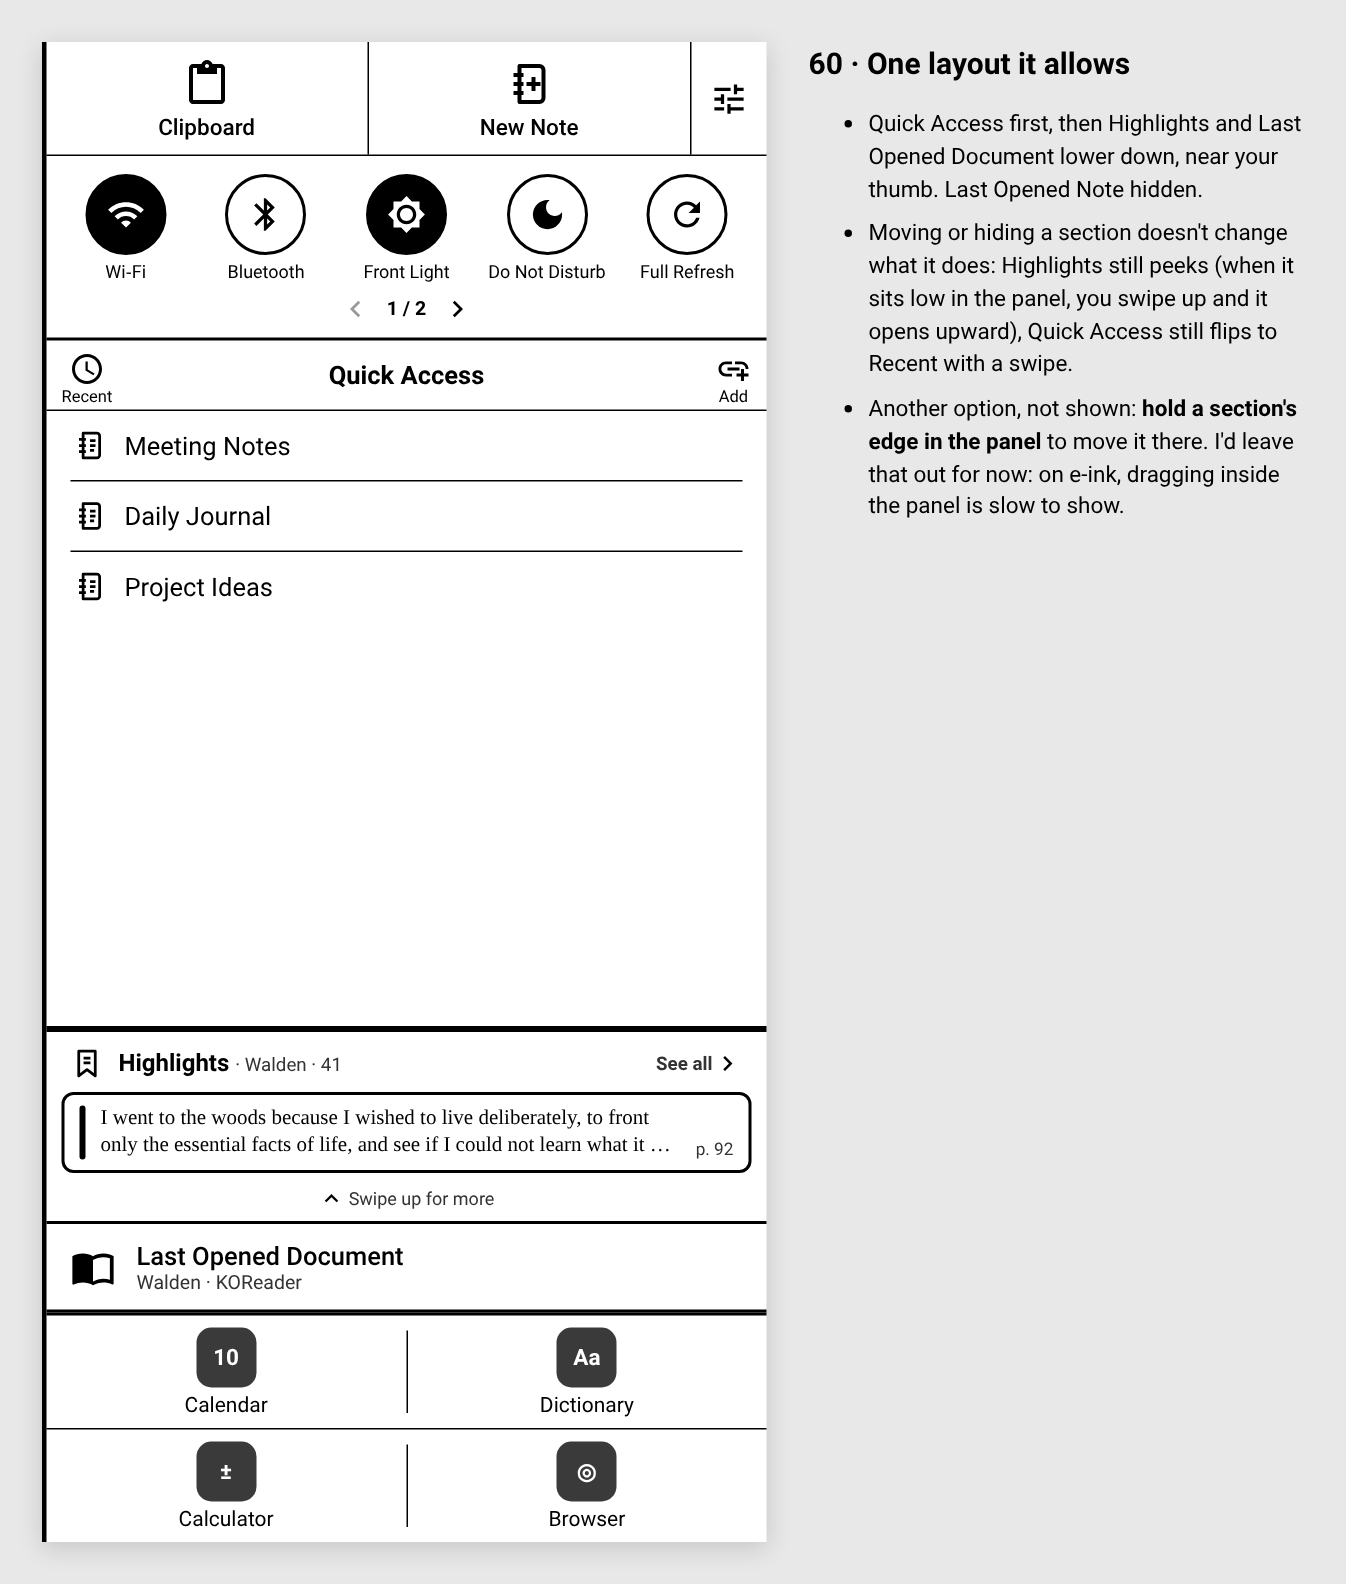
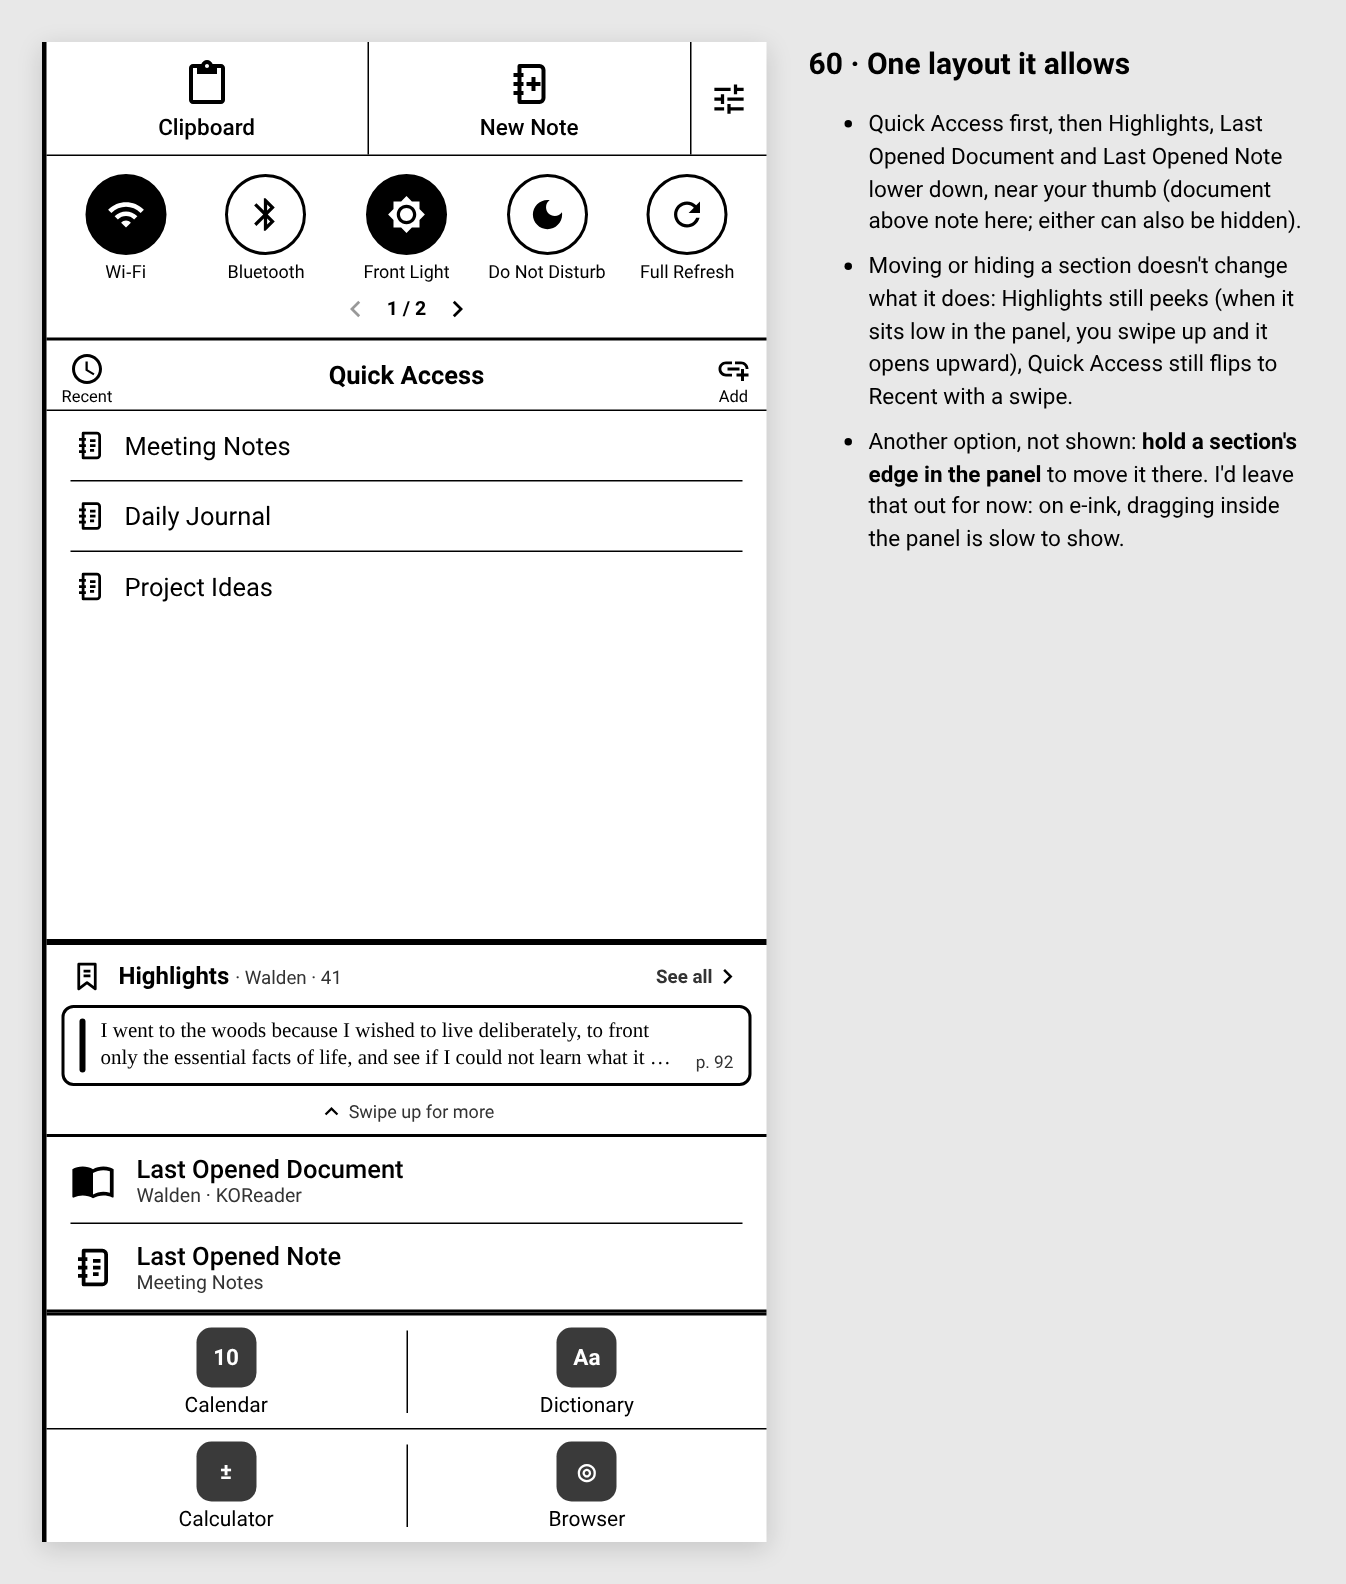
Panel sections: reorder and hide them in Settings → Look & size
Quick Controls, Last Opened Note, Last Opened Document, Highlights and Quick
Access can be dragged into any order and hidden; the top bar stays first,
the apps last, and Quick Access takes the height left. Highlights placed
below Quick Access peeks upward. Mockup 60 shows Last Opened Note again.

Claude-Session: https://claude.ai/code/session_018hzrAjqxwJr5HFxLW5Xn9C

Changed region(s): [[0.0312, 0.5878, 0.5617, 0.8352], [0.6241, 0.0619, 0.9673, 0.3403]]

diff --git a/app/src/main/java/com/superboox/quickaccess/QuickAccessPanel.kt b/app/src/main/java/com/superboox/quickaccess/QuickAccessPanel.kt
@@ -167,6 +167,8 @@ class QuickAccessPanel(
     private var peekPage = 0
     /** The highlight in the peek whose actions are showing. */
     private var peekOpen: String? = null
+    /** Highlights sits below Quick Access: it peeks with a swipe up (and closes with one down). */
+    private var peekUp = false
     private val digests: List<Digests.Highlight> by lazy { runCatching { Digests.all(service) }.getOrDefault(emptyList()) }
 
     /** The book open in a reading app (or the last one read), if Digests has highlights from it. */
@@ -254,40 +256,77 @@ class QuickAccessPanel(
             }
             return
         }
-        if (prefs.showSystemActions) {
-            content.addView(quickControlsRow(), lp(MATCH, WRAP))
-            content.addView(rule(2))
-        }
+        // The middle sections in the order set in Settings → Look & size → Panel sections.
+        val order = PanelSections.order(prefs).filter { PanelSections.shown(prefs, it) }
+        val showQc = PanelSection.CONTROLS in order
         if (peek && mode != Mode.MAIN) peek = false
         if (peek) {
-            // Highlights opened up over Last Opened and Quick Access; the apps stay.
+            // Highlights opened up over the other sections; Quick Controls and the apps stay.
+            if (showQc) {
+                content.addView(quickControlsRow(), lp(MATCH, WRAP))
+                content.addView(rule(2))
+            }
             content.addView(highlightsPeek(), lp(MATCH, 0, 1f))
             content.addView(rule(3))
             content.addView(dock(), lp(MATCH, WRAP))
             return
         }
-        // A swipe right anywhere in the Last Opened rows and the list below flips between
-        // Quick Access and Recent Files (not while editing, where rows are dragged). The controls
-        // above and the apps below keep their own sideways paging.
-        val flip = SwipeRow(ctx, s(40), vertical = true, only = -1) { _ ->
-            show(if (mode == Mode.RECENT) Mode.MAIN else Mode.RECENT)
+        // Highlights below Quick Access opens upward (swipe up), above it downward.
+        val quickAt = order.indexOf(PanelSection.QUICK)
+        peekUp = quickAt >= 0 && order.indexOf(PanelSection.HIGHLIGHTS) > quickAt
+        val views = order.mapNotNull { sec ->
+            val v: View? = when (sec) {
+                PanelSection.CONTROLS -> quickControlsRow()
+                PanelSection.NOTE -> lastNoteRow()
+                PanelSection.DOCUMENT -> lastDocumentRow()
+                PanelSection.HIGHLIGHTS -> if (mode == Mode.MAIN) highlightsSection() else null
+                PanelSection.QUICK -> scrolling(when (mode) {
+                    Mode.RECENT -> recentList()
+                    Mode.EDIT -> editList()
+                    else -> quickAccessList()
+                })
+            }
+            v?.let { sec to it }
         }
-        flip.addView(lastNoteRow())
-        flip.addView(insetRule())
-        flip.addView(lastDocumentRow())
-        flip.addView(rule(3))
-        if (mode == Mode.MAIN) highlightsSection()?.let {
-            flip.addView(it)
-            flip.addView(rule(3))
+        // A swipe right anywhere in these sections (other than Quick Controls, which pages sideways
+        // itself) flips between Quick Access and Recent Files; not while editing, where rows are dragged.
+        // Neighbouring sections share one swipe area; Quick Controls splits them.
+        var run: SwipeRow? = null
+        var prev: PanelSection? = null
+        var filled = false
+        for ((sec, v) in views) {
+            val sep: View? = when {
+                prev == null -> null
+                prev == PanelSection.CONTROLS || sec == PanelSection.CONTROLS -> rule(2)
+                prev in LAST_ROWS && sec in LAST_ROWS -> insetRule()
+                else -> rule(3)
+            }
+            if (sec == PanelSection.CONTROLS) {
+                run = null
+                sep?.let { content.addView(it) }
+                content.addView(v, lp(MATCH, WRAP))
+            } else {
+                val r = run ?: SwipeRow(ctx, s(40), vertical = true, only = -1) { _ ->
+                    show(if (mode == Mode.RECENT) Mode.MAIN else Mode.RECENT)
+                }.also { r ->
+                    r.swipeOn = mode != Mode.EDIT
+                    sep?.let { content.addView(it) }
+                    content.addView(r, lp(MATCH, WRAP))
+                    run = r
+                }
+                if (r.childCount > 0) sep?.let { r.addView(it) }
+                if (sec == PanelSection.QUICK) {
+                    r.addView(v, lp(MATCH, 0, 1f))
+                    r.layoutParams = lp(MATCH, 0, 1f)
+                    filled = true
+                } else {
+                    r.addView(v)
+                }
+            }
+            prev = sec
         }
-        val middle = when (mode) {
-            Mode.RECENT -> recentList()
-            Mode.EDIT -> editList()
-            else -> quickAccessList()
-        }
-        flip.addView(scrolling(middle), lp(MATCH, 0, 1f))
-        if (mode == Mode.EDIT) flip.swipeOn = false
-        content.addView(flip, lp(MATCH, 0, 1f))
+        // Quick Access hidden: the space left goes under the sections.
+        if (!filled) content.addView(View(ctx), lp(MATCH, 0, 1f))
         content.addView(rule(3))
         thisAppStrip()?.let {
             content.addView(it, lp(MATCH, WRAP))
@@ -2385,10 +2424,10 @@ class QuickAccessPanel(
         val pool = if (book != null) digests.filter { it.bookKey == book.key } else digests
         val latest = pool.sortedByDescending { it.time }.take(prefs.digestPanelCount)
         if (latest.isEmpty()) return null
-        VerticalSwipe(ctx, s(40), down = true) { openPeek() }.apply {
+        VerticalSwipe(ctx, s(40), down = !peekUp) { openPeek() }.apply {
             addView(highlightsHeader(if (book != null) "${book.title} · ${book.count}" else "recent", book?.key))
             latest.forEach { h -> addView(highlightLine(h, showBook = book == null, compact = true) { openPeek() }) }
-            addView(grip("Swipe down for more", down = true) { openPeek() })
+            addView(grip(if (peekUp) "Swipe up for more" else "Swipe down for more", down = !peekUp) { openPeek() })
         }
     }
 
@@ -2412,7 +2451,7 @@ class QuickAccessPanel(
         val pool = (if (peekAll || book == null) digests else digests.filter { it.bookKey == book.key }).sortedByDescending { it.time }
         val pages = ((pool.size + PEEK_PER_PAGE - 1) / PEEK_PER_PAGE).coerceAtLeast(1)
         peekPage = peekPage.coerceIn(0, pages - 1)
-        VerticalSwipe(ctx, s(40), down = false) { closePeek() }.apply {
+        VerticalSwipe(ctx, s(40), down = peekUp) { closePeek() }.apply {
             addView(highlightsHeader("recent", if (peekAll) null else book?.key))
             if (book != null) addView(hbox().apply {
                 background = outline(2, 8)
@@ -2437,7 +2476,7 @@ class QuickAccessPanel(
                 addView(text("${peekPage + 1} / $pages", sp(15f), bold = true).apply { setPadding(s(8), 0, s(8), 0) })
                 addView(pagerButton(R.drawable.ic_chevron_right, "Older highlights", peekPage < pages - 1) { peekPage++; peekOpen = null; show(Mode.MAIN) })
             })
-            addView(grip("Swipe up to close", down = false) { closePeek() })
+            addView(grip(if (peekUp) "Swipe down to close" else "Swipe up to close", down = peekUp) { closePeek() })
         }
     }
 
@@ -2580,6 +2619,7 @@ class QuickAccessPanel(
         const val LIGHT_PER_PAGE = 4
         const val CLIPS_PER_PAGE_MIN = 2
         const val PEEK_PER_PAGE = 5
+        private val LAST_ROWS = setOf(PanelSection.NOTE, PanelSection.DOCUMENT)
 
         /** The panel's width in pixels on a screen [screenW] wide (also used for Settings' live preview). */
         fun sheetWidth(context: Context, prefs: Prefs, screenW: Int): Int =

diff --git a/app/src/main/java/com/superboox/quickaccess/SettingsActivity.kt b/app/src/main/java/com/superboox/quickaccess/SettingsActivity.kt
@@ -1383,11 +1383,59 @@ class SettingsActivity : Activity() {
             previewButton(),
         )))
         list.addView(note("Changing the size or width shows the real panel beside this page, at that size, so you can see it before opening the panel. It can't be tapped; hide it with the button or by leaving this page."))
+        panelSectionsCard()
         list.addView(heading("Pages"))
         list.addView(card(listOf(
             check("Remember last page", prefs.rememberPages) { prefs.rememberPages = it },
         )))
         list.addView(note("Quick Controls and apps reopen on the page you left them on. Off: they start on page 1 each time the panel opens."))
+    }
+
+    /** Look & size → Panel sections: drag to reorder, untick to hide; the live panel shows it. */
+    private fun panelSectionsCard() {
+        list.addView(heading("Panel sections"))
+        val order = PanelSections.order(prefs)
+        fun fixedRow(title: String, sub: String, tag: String) = hbox().apply {
+            setPadding(dp(12), dp(10), dp(12), dp(10))
+            addView(View(context), lp(dp(42), 1))
+            addView(vbox().apply {
+                addView(text(title, 17f, medium = true))
+                addView(text(sub, 13f, color = Ink.MUTED))
+            }, lp(0, WRAP, 1f))
+            addView(text(tag, 11f, bold = true).apply { background = outline(1, 4); setPadding(dp(6), dp(1), dp(6), dp(1)) })
+        }
+        val rows = mutableListOf<View>(fixedRow("Top bar", "Clipboard · New Note · Settings", "ALWAYS FIRST"))
+        order.forEachIndexed { i, sec ->
+            val on = PanelSections.ticked(prefs, sec)
+            rows += hbox().apply {
+                setPadding(dp(6), dp(4), dp(12), dp(4))
+                gravity = Gravity.CENTER_VERTICAL
+                addView(dragHandle(this, i, order.size) { from, to ->
+                    PanelSections.save(prefs, order.move(from, to))
+                    previewOn = true
+                })
+                addView(CheckBox(context).apply {
+                    buttonTintList = android.content.res.ColorStateList.valueOf(Ink.INK)
+                    isChecked = on
+                    contentDescription = "Show ${sec.title}"
+                    setOnCheckedChangeListener { _, checked -> PanelSections.setShown(prefs, sec, checked); previewOn = true; render() }
+                })
+                addView(vbox().apply {
+                    setPadding(dp(4), dp(6), 0, dp(6))
+                    addView(text(sec.title, 17f, medium = true, color = if (on) Ink.INK else Ink.DISABLED))
+                    val sub = if (sec == PanelSection.CONTROLS && on && !prefs.showSystemActions) "None chosen: add some in Quick Controls" else sec.summary
+                    addView(text(sub, 13f, color = if (on) Ink.MUTED else Ink.DISABLED))
+                }, lp(0, WRAP, 1f))
+            }
+        }
+        rows += fixedRow("Apps at the bottom", "${prefs.dock.size} apps", "ALWAYS LAST")
+        if (!PanelSections.isDefault(prefs)) rows += buttonRow("Reset to the usual order" to {
+            PanelSections.reset(prefs)
+            previewOn = true
+            render()
+        })
+        list.addView(card(rows))
+        list.addView(note("Drag ≡ to move a section; untick it to hide it. The panel beside this page shows the result. Quick Access fills whatever height is left, wherever it sits."))
     }
 
     private fun pinsSection() {

diff --git a/app/src/main/java/com/superboox/quickaccess/PanelSections.kt b/app/src/main/java/com/superboox/quickaccess/PanelSections.kt
@@ -1,0 +1,59 @@
+package com.superboox.quickaccess
+
+/**
+ * The panel's middle sections, in the order the user set in Settings → Look & size → Panel
+ * sections. The top bar always comes first and the apps last; Quick Access takes the height left.
+ */
+enum class PanelSection(val id: String, val title: String, val summary: String) {
+    CONTROLS("controls", "Quick Controls", "Wi‑Fi, Front Light and the other switches"),
+    NOTE("note", "Last Opened Note", "Tap reopens it"),
+    DOCUMENT("document", "Last Opened Document", "Tap reopens it"),
+    HIGHLIGHTS("highlights", "Highlights", "Latest from the open book (Digests)"),
+    QUICK("quick", "Quick Access", "Your pinned items; takes the space left"),
+}
+
+object PanelSections {
+    val DEFAULT = listOf(PanelSection.CONTROLS, PanelSection.NOTE, PanelSection.DOCUMENT, PanelSection.HIGHLIGHTS, PanelSection.QUICK)
+
+    /** Every section, in the saved order (sections added in later versions go where they'd be by default). */
+    fun order(prefs: Prefs): List<PanelSection> {
+        val saved = prefs.sp.getString(Prefs.K_PANEL_ORDER, null)?.split(',')
+            ?.mapNotNull { id -> PanelSection.entries.firstOrNull { it.id == id } }?.distinct().orEmpty()
+        if (saved.isEmpty()) return DEFAULT
+        val out = saved.toMutableList()
+        DEFAULT.filter { it !in out }.forEach { missing ->
+            val after = DEFAULT.getOrNull(DEFAULT.indexOf(missing) - 1)
+            out.add(if (after == null) 0 else out.indexOf(after) + 1, missing)
+        }
+        return out
+    }
+
+    fun save(prefs: Prefs, order: List<PanelSection>) {
+        prefs.sp.edit().putString(Prefs.K_PANEL_ORDER, order.joinToString(",") { it.id }).apply()
+    }
+
+    fun reset(prefs: Prefs) {
+        prefs.sp.edit().remove(Prefs.K_PANEL_ORDER).remove(Prefs.K_PANEL_HIDDEN).apply()
+        prefs.digestPanel = true
+    }
+
+    /** Ticked in Settings. Highlights keeps its own setting (also in Settings → Digests). */
+    fun ticked(prefs: Prefs, s: PanelSection): Boolean = when (s) {
+        PanelSection.HIGHLIGHTS -> prefs.digestPanel
+        else -> s.id !in hidden(prefs)
+    }
+
+    /** Drawn in the panel: ticked, and Quick Controls only when it has controls. */
+    fun shown(prefs: Prefs, s: PanelSection): Boolean = ticked(prefs, s) && (s != PanelSection.CONTROLS || prefs.showSystemActions)
+
+    fun setShown(prefs: Prefs, s: PanelSection, on: Boolean) {
+        when (s) {
+            PanelSection.HIGHLIGHTS -> prefs.digestPanel = on
+            else -> prefs.sp.edit().putStringSet(Prefs.K_PANEL_HIDDEN, if (on) hidden(prefs) - s.id else hidden(prefs) + s.id).apply()
+        }
+    }
+
+    private fun hidden(prefs: Prefs): Set<String> = prefs.sp.getStringSet(Prefs.K_PANEL_HIDDEN, null).orEmpty()
+
+    fun isDefault(prefs: Prefs): Boolean = order(prefs) == DEFAULT && PanelSection.entries.all { ticked(prefs, it) }
+}

diff --git a/docs/mockups/panel-sections.html b/docs/mockups/panel-sections.html
@@ -475,9 +475,9 @@ const S1 = () => `<div class="set" style="width:600px;height:1000px">${head("Loo
   "<b>Reset to the usual order</b> puts it back. Included in Backup &amp; restore.",
 ]);
 const S2 = () => shell(topBar(false) + qc + `<div style="flex:1">${qaList.replace('<div class="qa">', '<div class="qa" style="border-top:0">')}</div>` +
-  `<div style="border-top:2.5px solid #000"></div>` + hlSection.replace(`${g("down", 18)} Swipe down for more`, `${g("up", 18)} Swipe up for more`).replace('<div class="grip"><i></i>', '<div class="grip">') + `<div style="border-top:2.5px solid #000"></div>` + lastDoc + `<div style="border-top:2.5px solid #000"></div>` + apps) +
+  `<div style="border-top:2.5px solid #000"></div>` + hlSection.replace(`${g("down", 18)} Swipe down for more`, `${g("up", 18)} Swipe up for more`).replace('<div class="grip"><i></i>', '<div class="grip">') + `<div style="border-top:2.5px solid #000"></div>` + lastDoc + `<div class="ir"></div>` + lastNote + `<div style="border-top:2.5px solid #000"></div>` + apps) +
   notes("60 · One layout it allows", [
-  "Quick Access first, then Highlights and Last Opened Document lower down, near your thumb. Last Opened Note hidden.",
+  "Quick Access first, then Highlights, Last Opened Document and Last Opened Note lower down, near your thumb (document above note here; either can also be hidden).",
   "Moving or hiding a section doesn't change what it does: Highlights still peeks (when it sits low in the panel, you swipe up and it opens upward), Quick Access still flips to Recent with a swipe.",
   "Another option, not shown: <b>hold a section's edge in the panel</b> to move it there. I'd leave that out for now: on e-ink, dragging inside the panel is slow to show.",
 ]);

diff --git a/app/src/main/java/com/superboox/quickaccess/Prefs.kt b/app/src/main/java/com/superboox/quickaccess/Prefs.kt
@@ -416,6 +416,8 @@ class Prefs(context: Context) {
         const val K_DIGEST_EXPORT_URI = "digest_export_uri"
         const val K_DIGEST_EXPORTED = "digest_exported"
         const val K_DIGEST_PANEL = "digest_panel"
+        const val K_PANEL_ORDER = "panel_order"
+        const val K_PANEL_HIDDEN = "panel_hidden"
         const val K_DIGEST_COPY_APPS = "digest_copy_apps"
         const val K_DIGEST_SHARE_TEXT = "digest_share_text"
         const val SHARE_TEXT_BOTH = "both"

diff --git a/docs/HANDOFF.md b/docs/HANDOFF.md
@@ -520,3 +520,18 @@ An Android overlay app for ONYX BOOX e-ink tablets (user's device: **Note Air 6C
       - `saveText` skips a duplicate within 30 min.
     - **Sharing text to SuperBoox:** both entries, Save to Digest only, or Add to Clipboard only. Those are the activity-aliases `.ShareToDigest` and `.ShareTextToClipboard`, switched by `SaveToDigestActivity.sync`. With one entry, BOOX's share sheet has no ▾.
   - Offline compile check without the Android SDK: Kotlin compiler 2.0.21 plus Robolectric `android-all-14` and the Shizuku/HiddenApiBypass jars, all from Maven Central, with a stub R generated from res/. See the session scratchpad `kc/check.sh`.
+
+## Panel sections (mockups 59–60, approved)
+
+- Settings → Look & size → **Panel sections**: drag ≡ to reorder, untick to hide.
+  - The sections are Quick Controls, Last Opened Note, Last Opened Document, Highlights and Quick Access.
+  - The top bar is always first and the apps always last.
+  - Reset to the usual order appears once anything changes.
+- `PanelSections` stores the order in Prefs `panel_order` and hidden sections in `panel_hidden`, so backups include them.
+  - Highlights' tick is `digestPanel`, shared with Settings → Digests.
+  - Quick Controls is drawn only when it's ticked and has controls.
+  - Sections added in later versions slot in at their default position.
+- `QuickAccessPanel.show` draws the sections in order:
+  - Neighbouring sections other than Quick Controls share one sideways-swipe area (Quick Access ↔ Recent). Quick Controls splits them, since it pages sideways itself.
+  - Quick Access takes the height left. If it's hidden, a spacer does.
+  - When Highlights sits below Quick Access, it peeks with a swipe up and closes with a swipe down (`peekUp`).
